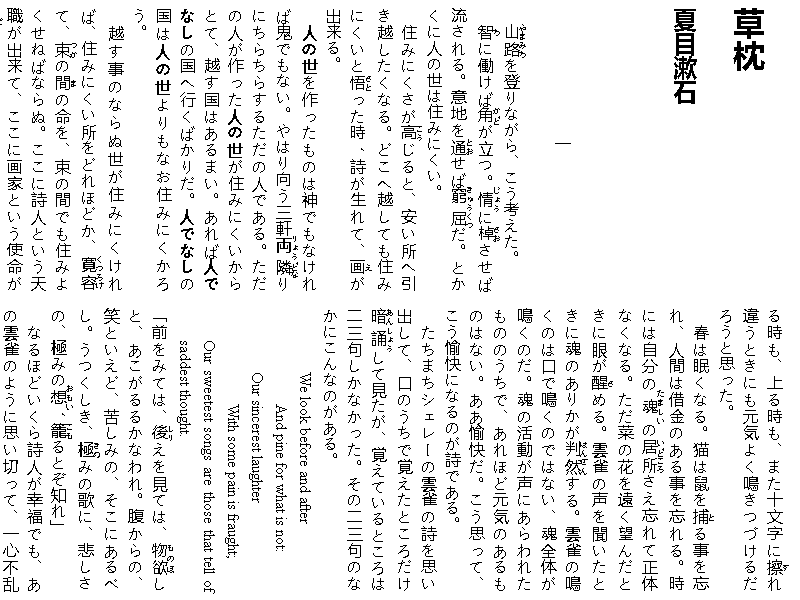
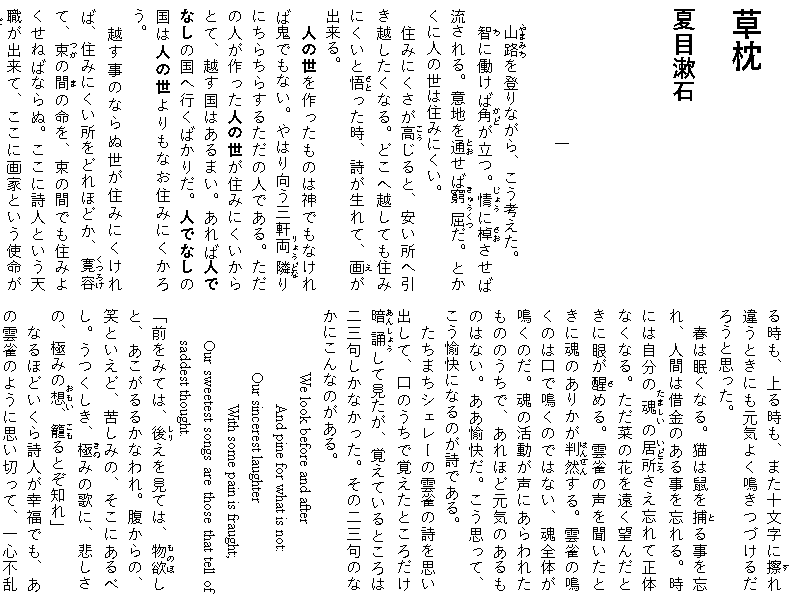
Specify lang="ja" to Kusa-Makura-background-canvas.html
It's a test for Japanese text, however `xml:lang="ja"` was not
recognized because it is not loaded as an XHTML. A Chinese font was
applied to the test unexpectedly on Windows.

This CL updates the attribute to `lang="ja"`.

Auto-Submit: Kent Tamura <tkent@chromium.org>
Commit-Queue: Kent Tamura <tkent@chromium.org>
Commit-Queue: Koji Ishii <kojii@chromium.org>
Cr-Commit-Position: refs/heads/main@{#1720338}
NOKEYCHECK=True
GitOrigin-RevId: 3a4cf98fdea7eb66519e86985e0058bc5f2d4135

diff --git a/blink/web_tests/fast/writing-mode/Kusa-Makura-background-canvas.html b/blink/web_tests/fast/writing-mode/Kusa-Makura-background-canvas.html
@@ -1,11 +1,9 @@
-<?xml version="1.0" encoding="utf-8"?>
-<!DOCTYPE html PUBLIC "-//W3C//DTD XHTML 1.1//EN"
-    "http://www.w3.org/TR/xhtml11/DTD/xhtml11.dtd">
+<!DOCTYPE html>
 <!--
   This is a rendering test for background painting in vertical-rl.
   Also, this tests justification for vertical Japanese text and <ruby>.
 -->
-<html xmlns="http://www.w3.org/1999/xhtml" xml:lang="ja" >
+<html lang="ja">
 <head>
 	<meta http-equiv="Content-Type" content="text/html;charset=utf-8" />
 	<title>夏目漱石 草枕</title>
